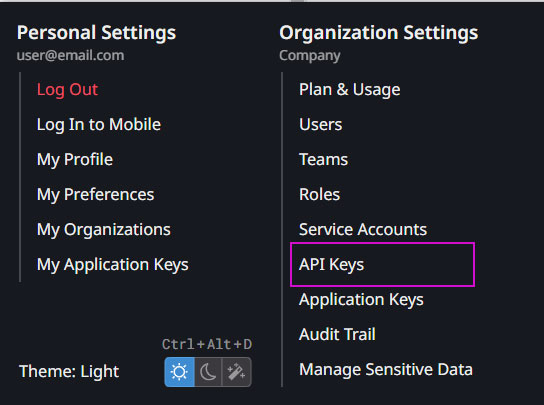
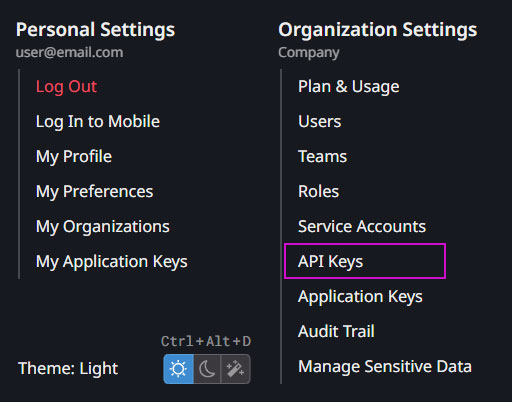
Add steps for datdog.

diff --git a/src/quickstart/cloud/kubernetes/index.md b/src/quickstart/cloud/kubernetes/index.md
@@ -2,7 +2,7 @@
 
 <div style="display: flex; align-items: center; justify-content: space-between; padding: 2rem 1.5rem; margin-bottom: 2rem; background-color: #eef6ff;">
   <div  style="display: flex; align-items: center; justify-content: start;">
-    <img src="https://www.solodev.com/file/a7d1f218-48f9-11eb-b0f2-023b938ab155/Kubernetes_Logo_Icon-15b25ca2.png" alt="Kubernetes Logo" style="width: 80px;">
+    <img src="/static/images/logos/kubernetes-pro-logo.jpg" alt="Kubernetes Logo" style="width: 80px;">
     <div>
       <h1 style="margin-left: 0; font-size: 2rem; margin-bottom: 0.25rem;">Kubernetes</h1>
       <p style="padding-left: 2rem; margin-bottom: 0;">Deploy websites and apps in containers at scale with Kubernetes and AWS.</p>
@@ -11,95 +11,13 @@
   <a href="https://aws.amazon.com/marketplace/pp/prodview-s7tpcn3m7fuf6?sr=0-4&ref_=beagle&applicationId=AWSMPContessa" rel="noopener noreferrer" target="_blank" style="background-color: #f99700; color: #fff; padding: .5rem 2.5rem; border-radius: 20px; font-weight: 600; display: inline-flex;">SUBSCRIBE <span style="padding-left: .5rem; display: inline-flex; align-items: center;"><svg xmlns="http://www.w3.org/2000/svg" viewBox="0 0 16 16" width="20" height="20" fill="#fff"><path d="M3.75 2h3.5a.75.75 0 0 1 0 1.5h-3.5a.25.25 0 0 0-.25.25v8.5c0 .138.112.25.25.25h8.5a.25.25 0 0 0 .25-.25v-3.5a.75.75 0 0 1 1.5 0v3.5A1.75 1.75 0 0 1 12.25 14h-8.5A1.75 1.75 0 0 1 2 12.25v-8.5C2 2.784 2.784 2 3.75 2Zm6.854-1h4.146a.25.25 0 0 1 .25.25v4.146a.25.25 0 0 1-.427.177L13.03 4.03 9.28 7.78a.751.751 0 0 1-1.042-.018.751.751 0 0 1-.018-1.042l3.75-3.75-1.543-1.543A.25.25 0 0 1 10.604 1Z"></path></svg></span></a>
 </div>
 
-## Product Overview
-
 Solodev Managed Kubernetes is the answer to your container challenges! Unleash the power of Kubernetes with the technology, processes, and support to successfully scale and manage your cluster.
-
 
 ## Prerequisites
 
-* You need an Access Key and a Secret Token from your AWS account IAM user. For more information on IAM user, <a href="https://docs.aws.amazon.com/IAM/latest/UserGuide/id_users.html?icmpid=docs_iam_help_panel" target="_blank" rel="noopener noreferrer">click here</a>.
-* You might need to install or update the following packages:
-
-{% tabs %}
-{% tab title="Windows" %}
-* You need to have **Chocolatey** installed or any other package manager you prefer. For instructions on how to install Chocolatey, <a href="https://chocolatey.org/install" target="_blank" rel="noopener noreferrer">click here</a>.
-* You will also need the following packages:
-
-  * **EKS CTL**
-   
-    `eksctl` is a command-line tool provided by AWS (Amazon Web Services) that simplifies the creation, management, and operation of Kubernetes clusters on AWS's managed Kubernetes service known as Amazon EKS (Elastic Kubernetes Service).
-
-    ```js
-    choco install eksctl
-    ```
-
-  * **Kubernetes Command-Line Tool**
-
-    The `kubectl` is a command-line tool for Kubernetes that lets users deploy and manage applications, inspect and manage cluster resources, view logs, and troubleshoot issues within Kubernetes environments. It communicates with the Kubernetes API server to execute commands, handle operations like creating, deleting, scaling, and updating resources such as pods, services, and deployments.
-
-    ```js
-    choco install kubernetes-cli
-    ```
-
-  * **Kubernetes Helm**
-
-    `Kubernetes Helm` is a package manager for Kubernetes that simplifies the process of deploying and managing applications on Kubernetes clusters. It allows users to define, install, and upgrade complex Kubernetes applications and their dependencies through charts. A `Helm chart` is a collection of files that describe a set of Kubernetes resources, such as deployments, services, and config maps, packaged together for easy deployment.
-
-    ```js
-    choco install kubernetes-helm
-    ```
-
-  * **jq**
-
-    `jq` is a lightweight and flexible command-line JSON processor. It allows you to parse, filter, map, and transform JSON data with ease.
-
-    ```js
-    choco install jq
-    ```
-
-  * **Python**
-
-    `Python` is a versatile and powerful scripting language that allows you to automate tasks, interact with system resources, and integrate with various APIs and libraries. <a href="https://apps.microsoft.com/search?query=Python&hl=en-us&gl=US" target="_blank" rel="noopener noreferrer">Download the latest version from the Microsoft Store.</a>
-{% endtab %}
-
-{% tab title="Linux" %}
-Coming soon...
-{% endtab %}
-
-{% tab title="MacOs" %}
-Coming soon...
-{% endtab %}
-{% endtabs %}
-
-## Configure your user credentials 
-
-1. Make sure you have the latest version of `aws cli`. If you do not, <a href="https://docs.aws.amazon.com/cli/latest/userguide/getting-started-install.html#getting-started-install-instructions" target="_blank" rel="noopener noreferrer">follow this instructions.</a>
-```js
-aws --version
-```
-2. Configure your user credentials by running the following command:
-```js
-aws configure --profile PROFILE-NAME
-```
-
-!!!NOTE:
-Replace `PROFILE-NAME` with you own.
-!!!
-
-You will be prompted for the following information:
-
-```js
-AWS Access Key ID [None]:
-AWS Secret Access Key [None]:
-Default region name [None]:
-Default output format [None]:json
-```
-
-  1. **AWS Access Key ID**: Obtain this from your IAM user settings.
-  2. **AWS Secret Access Key**: Obtain this from your IAM user settings.
-  3. **Default Region Name**: Enter your preferred AWS region (e.g., `us-east-1`).
-  4. **Default Output Format**: Specify `json` for JSON output format.
+* Access Key and a Secret Token from your AWS account IAM user. For more information on IAM user, <a href="https://docs.aws.amazon.com/IAM/latest/UserGuide/id_users.html?icmpid=docs_iam_help_panel" target="_blank" rel="noopener noreferrer">click here</a>.
+* You might need to install or update the [following packages](#required-utilities).
+* [Configure AWS Profile](#configure-aws-profile).
 
 ## Create a cluster
 
@@ -172,7 +90,91 @@ This updates the ports for the CMS on Kubernetes to be hosted locally so you can
 
 ## Next Step
 
-Add a website, [click here](https://cms.solodev.net/tutorials/cms/how-to-add-website/).
+### Add your First Website
+
+Please [follow this link](https://cms.solodev.net/workspace/websites/add-website/) to learn more about Solodev and to learn how to build your first website.
+
+## Required Utilities
+
+{% tabs %}
+{% tab title="Windows" %}
+* You need to have **Chocolatey** installed or any other package manager you prefer. For instructions on how to install Chocolatey, <a href="https://chocolatey.org/install" target="_blank" rel="noopener noreferrer">click here</a>.
+* You will also need the following packages:
+
+  * **EKS CTL**
+   
+    `eksctl` is a command-line tool provided by AWS (Amazon Web Services) that simplifies the creation, management, and operation of Kubernetes clusters on AWS's managed Kubernetes service known as Amazon EKS (Elastic Kubernetes Service).
+
+    ```js
+    choco install eksctl
+    ```
+
+  * **Kubernetes Command-Line Tool**
+
+    The `kubectl` is a command-line tool for Kubernetes that lets users deploy and manage applications, inspect and manage cluster resources, view logs, and troubleshoot issues within Kubernetes environments. It communicates with the Kubernetes API server to execute commands, handle operations like creating, deleting, scaling, and updating resources such as pods, services, and deployments.
+
+    ```js
+    choco install kubernetes-cli
+    ```
+
+  * **Kubernetes Helm**
+
+    `Kubernetes Helm` is a package manager for Kubernetes that simplifies the process of deploying and managing applications on Kubernetes clusters. It allows users to define, install, and upgrade complex Kubernetes applications and their dependencies through charts. A `Helm chart` is a collection of files that describe a set of Kubernetes resources, such as deployments, services, and config maps, packaged together for easy deployment.
+
+    ```js
+    choco install kubernetes-helm
+    ```
+
+  * **jq**
+
+    `jq` is a lightweight and flexible command-line JSON processor. It allows you to parse, filter, map, and transform JSON data with ease.
+
+    ```js
+    choco install jq
+    ```
+
+  * **Python**
+
+    `Python` is a versatile and powerful scripting language that allows you to automate tasks, interact with system resources, and integrate with various APIs and libraries. <a href="https://apps.microsoft.com/search?query=Python&hl=en-us&gl=US" target="_blank" rel="noopener noreferrer">Download the latest version from the Microsoft Store.</a>
+{% endtab %}
+
+{% tab title="Linux" %}
+Coming soon...
+{% endtab %}
+
+{% tab title="MacOs" %}
+Coming soon...
+{% endtab %}
+{% endtabs %}
+
+## Configure AWS Profile
+
+1. Make sure you have the latest version of `aws cli`. If you do not, <a href="https://docs.aws.amazon.com/cli/latest/userguide/getting-started-install.html#getting-started-install-instructions" target="_blank" rel="noopener noreferrer">follow this instructions.</a>
+```js
+aws --version
+```
+2. Configure your user credentials by running the following command:
+```js
+aws configure --profile PROFILE-NAME
+```
+
+!!!NOTE:
+Replace `PROFILE-NAME` with you own.
+!!!
+
+You will be prompted for the following information:
+
+```js
+AWS Access Key ID [None]:
+AWS Secret Access Key [None]:
+Default region name [None]:
+Default output format [None]:json
+```
+
+  1. **AWS Access Key ID**: Obtain this from your IAM user settings.
+  2. **AWS Secret Access Key**: Obtain this from your IAM user settings.
+  3. **Default Region Name**: Enter your preferred AWS region (e.g., `us-east-1`).
+  4. **Default Output Format**: Specify `json` for JSON output format.
 
 <style>
   /* Headers */

diff --git a/src/quickstart/cloud/datadog/index.md b/src/quickstart/cloud/datadog/index.md
@@ -17,21 +17,101 @@ Monitor your cloud-scale applications – from servers to databases to container
 If you already have a Datadog account, [sign in here](https://us5.datadoghq.com/account/login).
 !!!
 
-## Add API key
+## Prerequisites
+  - Preexisting [API Key](#add-api-key).
+  - Preexisting [APP Key](#add-app-key).
 
-1. Navigate to your user in the left nav. 
+## <span class="text-teal">Launch Software</span>
 
-<p><img src="/static/images/datadog/datadog-nav.jpg" alt="Datadog nav"></p>
+Review the launch configuration details and follow the instructions to launch this software.
 
-2. Under **Organization settings**, click the API Keys tab.
-<p><img src="/static/images/datadog/datadog-api-settings.jpg" alt="Datadog Organization settings"></p>
+{% tabs %}
+
+{% tab title="CloudFormation" %}
+
+Before launching the WordPress Pro software, make sure you are logged into your AWS account. If you do not have an AWS account, click here to create one. Once you have signed in, click the button below and follow the outlined steps.
+
+<a href="https://us-east-1.console.aws.amazon.com/cloudformation/home?region=us-east-1#/stacks/quickcreate?param_APIKey=eedbadc78b55ca876fea2fd4fdbf7856&param_APPKey=2c290865215a46d0013ca4c1a2ea986b942eeae4&param_CloudSecurityPostureManagement=false&param_DatadogSite=datadoghq.com&param_InstallLambdaLogForwarder=false&stackName=DatadogIntegration&templateURL=https%3A%2F%2Fdatadog-cloudformation-template-quickstart.s3.amazonaws.com%2Faws%2Fv1.1.1%2Fmain_v2.yaml" rel="noopener noreferrer" target="_blank" class="btn-orange-lg mb-2">LAUNCH DATADOG <span><svg xmlns="http://www.w3.org/2000/svg" viewBox="0 0 16 16" width="20" height="20" fill="#fff"><path d="M3.75 2h3.5a.75.75 0 0 1 0 1.5h-3.5a.25.25 0 0 0-.25.25v8.5c0 .138.112.25.25.25h8.5a.25.25 0 0 0 .25-.25v-3.5a.75.75 0 0 1 1.5 0v3.5A1.75 1.75 0 0 1 12.25 14h-8.5A1.75 1.75 0 0 1 2 12.25v-8.5C2 2.784 2.784 2 3.75 2Zm6.854-1h4.146a.25.25 0 0 1 .25.25v4.146a.25.25 0 0 1-.427.177L13.03 4.03 9.28 7.78a.751.751 0 0 1-1.042-.018.751.751 0 0 1-.018-1.042l3.75-3.75-1.543-1.543A.25.25 0 0 1 10.604 1Z"></path></svg></span></a>
+
+!!!NOTE:
+If your AWS region is different from `us-east-1`, make sure to select your specific region from the top menu.
+!!!
+
+### Create Stack
+
+1. Provide a stack name.
+
+<p><img src="/static/images/datadog/datadog-stack-name.jpg" alt="Datadog stack name" style="width: 45%;"></p>
+
+2. Specify the parameters in the Required section.
+
+<p><img src="/static/images/datadog/datadog-params-required.jpg" alt="Datadog Required section" style="width: 80%;"></p>
+
+Name   | Description
+---    | ---
+DatadogApiKey | [API key](add-api-key) for the Datadog account.
+DatadogAppKey  | [APP key](add-app-key) for the Datadog account. If this template was launched from the Datadog app, this key is tied to the user that launched the template, and is a key specifically generated for this integration.
+DatadogSite | Define your Datadog Site to send data to.
+InstallLambdaLogForwarder | Determines whether the default configuration for the Datadog Lambda Log Forwarder is installed as part of this stack. For more information, [click here](https://docs.datadoghq.com/serverless/libraries_integrations/forwarder/#installation).
+CloudSecurityPostureManagement | Add the AWS Managed SecurityAudit policy to your Datadog AWS Integration role, and enable Datadog Cloud Security Posture Management (CSPM) to start performing configuration checks across your AWS account. [Click here](https://www.datadoghq.com/product/security-platform/cloud-security-posture-management/) for more information.
+
+3. Specify the parameters in the Advanced section.
+
+<p><img src="/static/images/datadog/datadog-params-advanced.jpg" alt="Datadog Advanced section" style="width: 62%;"></p>
+
+Name   | Description
+---    | ---
+IAMRoleName | Customize the name of IAM role for Datadog AWS integration.
+DisableMetricCollection | Disable metric collection.
+
+4. Specify the permission. **This step is optional**.
+
+<p><img src="/static/images/datadog/datadog-params-permissions.jpg" alt="Datadog permissions section" style="width: 62%;"></p>
+
+5. Acknowledge the AWS CloudFormation terms.
+
+<p><img src="/static/images/quickstart/stack-capabilities.jpg" alt="Datadog capabilities" style="width: 62%;"></p>
+
+6. Click <span class="text-orange">**Create Stack**</span>.
+
+{% endtab %}
+
+{% endtabs %}
+
+## Add API Key
+
+1. Navigate to your user in the left nav or go to https://app.datadoghq.com/organization-settings/api-keys.
+
+<p><img src="/static/images/datadog/datadog-nav.jpg" alt="Datadog nav" style="width: 13%;"></p>
+
+2. Under **Organization settings**, click the **API Keys** tab.
+<p><img src="/static/images/datadog/datadog-api-settings.jpg" alt="Datadog Organization settings" style="width: 40%;"></p>
 
 2. Click the **New Key** button.
-<p><img src="/static/images/datadog/datadog-new-key.jpg" alt="Datadog New Key" style="width: 60%;"></p>
+<p><img src="/static/images/datadog/datadog-new-key.jpg" alt="Datadog New Key" style="width: 40%;"></p>
 
 3. Enter a **name** for your key.
 
-<p><img src="/static/images/datadog/datadog-new-key-name.jpg" alt="Datadog New Key Name" style="width: 60%;"></p>
+<p><img src="/static/images/datadog/datadog-new-key-name.jpg" alt="Datadog New Key Name" style="width: 40%;"></p>
+
+4. Click <span class="text-orange">**Create Key**</orange>.
+
+## Add APP Key
+
+1. Navigate to your user in the left nav or go to https://app.datadoghq.com/organization-settings/application-keys. 
+
+<p><img src="/static/images/datadog/datadog-nav.jpg" alt="Datadog nav" style="width: 13%;"></p>
+
+2. Under **Organization settings**, click the **Application Keys** tab.
+<p><img src="/static/images/datadog/datadog-app-settings.jpg" alt="Datadog Organization settings" style="width: 40%;"></p>
+
+2. Click the **New Key** button.
+
+<p><img src="/static/images/datadog/datadog-new-key-app.jpg" alt="Datadog New Key" style="width: 40%;"></p>
+
+3. Enter a **name** for your key.
+
+<p><img src="/static/images/datadog/datadog-new-key-name.jpg" alt="Datadog New Key Name" style="width: 40%;"></p>
 
 4. Click <span class="text-orange">**Create Key**</orange>.
 

diff --git a/src/quickstart/cms/wordpress/index.md b/src/quickstart/cms/wordpress/index.md
@@ -323,7 +323,37 @@ Ensure that your browser's address bar includes "http://" instead of "https://."
 
 {% endtabs %}
 
+## Next Steps
+
+<div class="card-lg" style="margin-bottom: 1.5rem;">
+  <div style="display: flex; align-items: center; justify-content: start;">
+    <div style="width: 120px;">
+      <img src="/static/images/logos/cdn-wordpress.png" alt="WordPress CDN Logo" style="width: 100%;">
+    </div>
+    <div style="margin-left: 30px; width: 80%;">
+      <h2>WordPress CDN</h2>
+      <p style="font-size: .9rem;"><strong>Prerequisites:</strong> you need a <a href="https://console.aws.amazon.com/acm/" target="_blank">certificate</a> with the name of site you are trying to launch <br>and have an existing <a href="/quickstart/cms/wordpress" target="_blank">WordPress</a>.</p>
+      <p class="mt-2">Boost your site's speed by delivering content from servers near your visitors.</p>
+    </div>
+  </div>
+  <div>
+    <a href="https://us-east-1.console.aws.amazon.com/cloudformation/home?region=us-east-1#/stacks/create?stackName=cms-cdn&templateURL=https://s3://wordpress-release/cloudformation/cloudfront-wordpress.yaml" class="btn-orange-lg" target="_blank">LAUNCH <img src="/static/images/icons/circle-play-solid.svg" style="width: 16px; margin-left: 1rem;"></a>
+  </div>
+</div>
+
 <style>
+  .card-lg {
+    border: 1px solid #dee2e6;
+    box-shadow: 0 1px 15px rgba(0, 0, 0, .15);
+    padding: 1.5rem;
+    display: flex;
+    align-items: center;
+    justify-content: space-between;
+  }
+  .card-lg h2 {
+    margin-top: 0;
+    font-size: 1.4rem;
+  }
   /* Headers */
   .header {
     display: flex;
